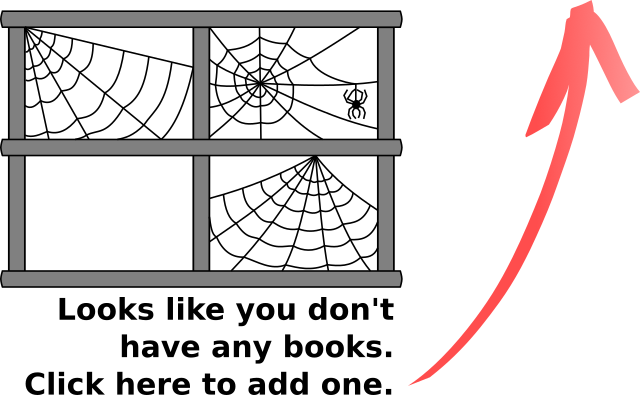
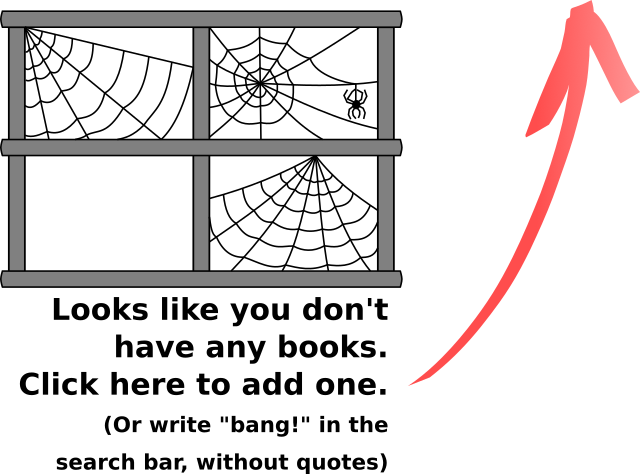
moved books to function for placing

Changed region(s): [[0.0, 0.0, 1.0, 1.0], [0.9062, 0.0, 0.9375, 0.0304]]

diff --git a/code.js b/code.js
@@ -1,4 +1,7 @@
 let myLibrary = [
+];
+
+const placeholderBooks = [
   //this is a placeholder with top sellers, for testing
   {title:"Harry Potter and the Sorcerer's Stone",author:"J.K. Rowling",pages:"",read:false},
   {title:"The Hunger Games",author:"Suzanne Collins",pages:"",read:false},
@@ -207,6 +210,13 @@ function filter() {
   } else {
     domTitles.forEach(title => title.parentNode.classList.remove("hidden"))
   };
+  
+  if(search.value === "bang!"){
+    myLibrary = placeholderBooks;
+    search.value = "";
+    placeBooks();
+    emptyState();
+  }
 };
 
 
